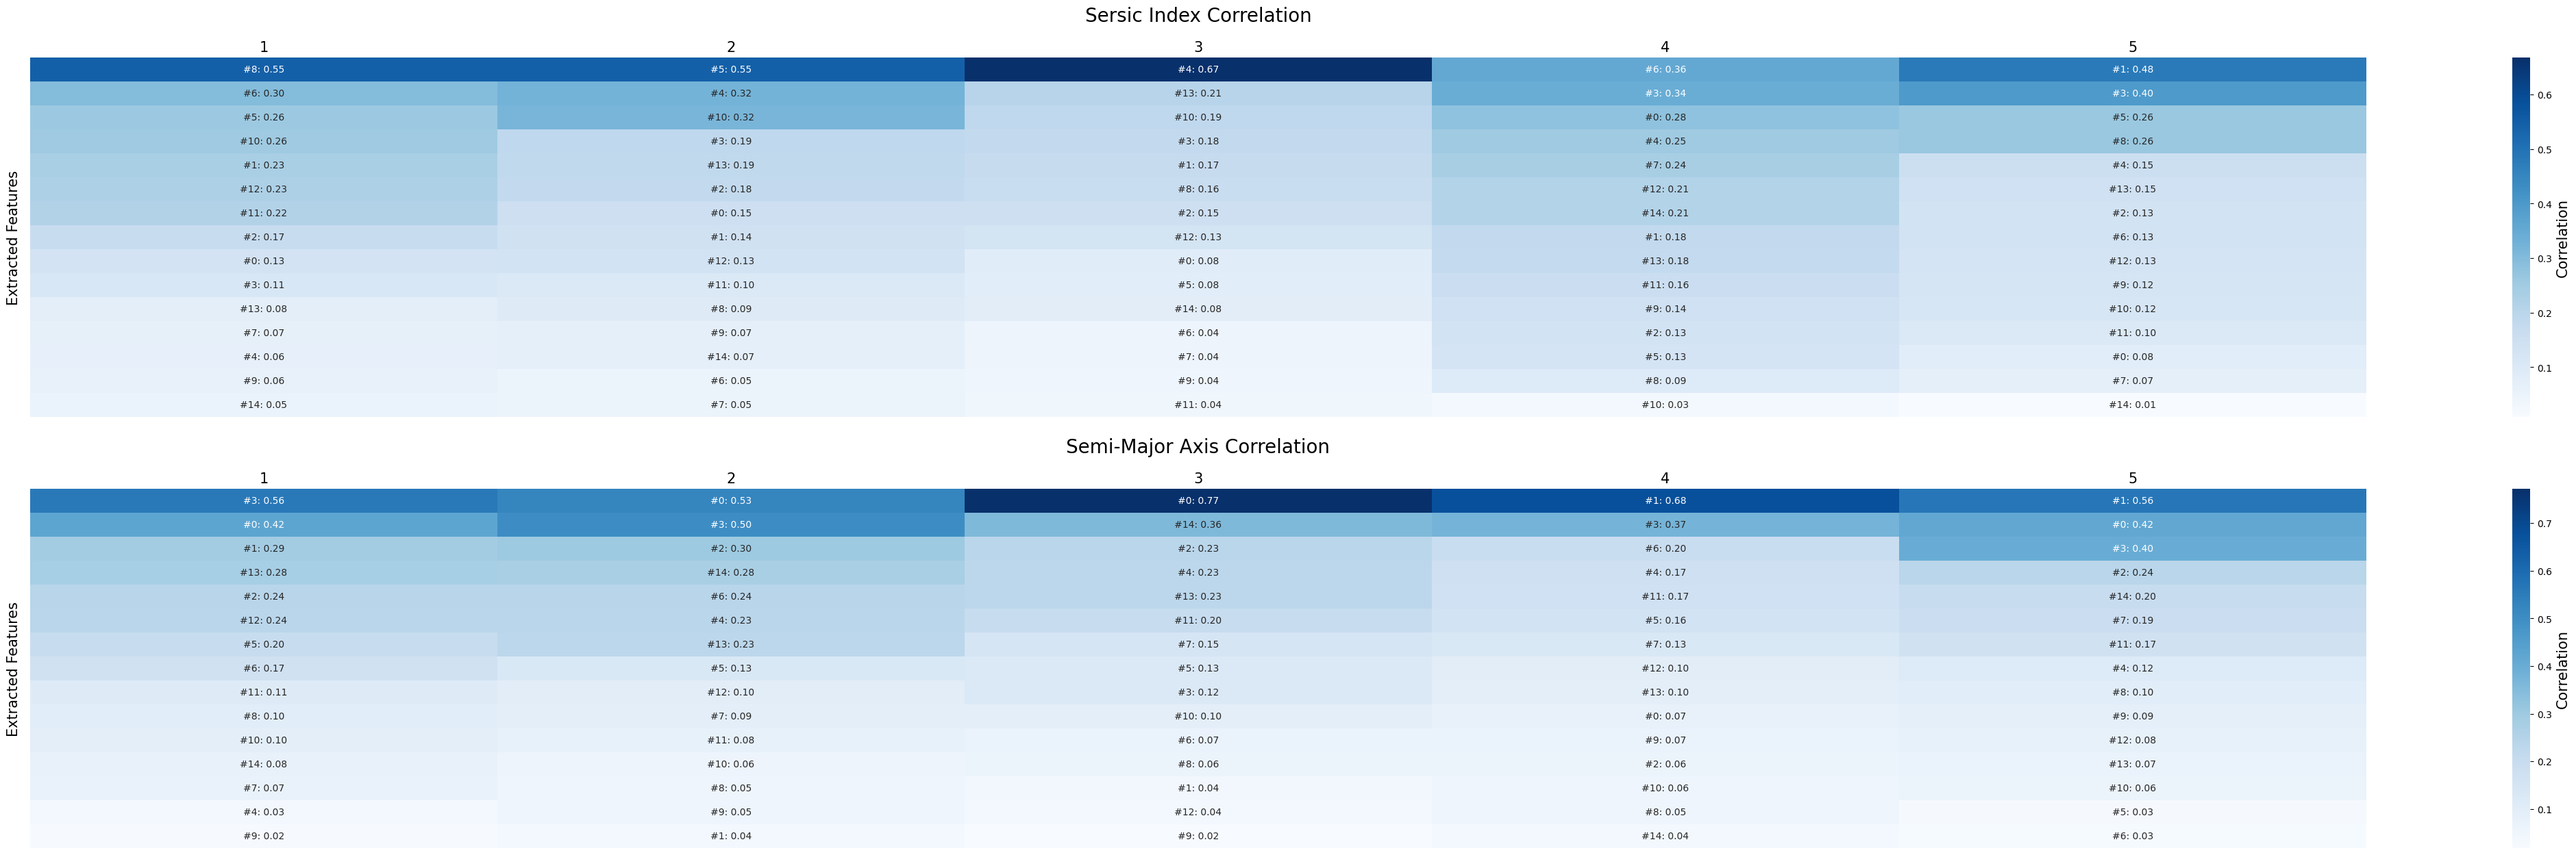
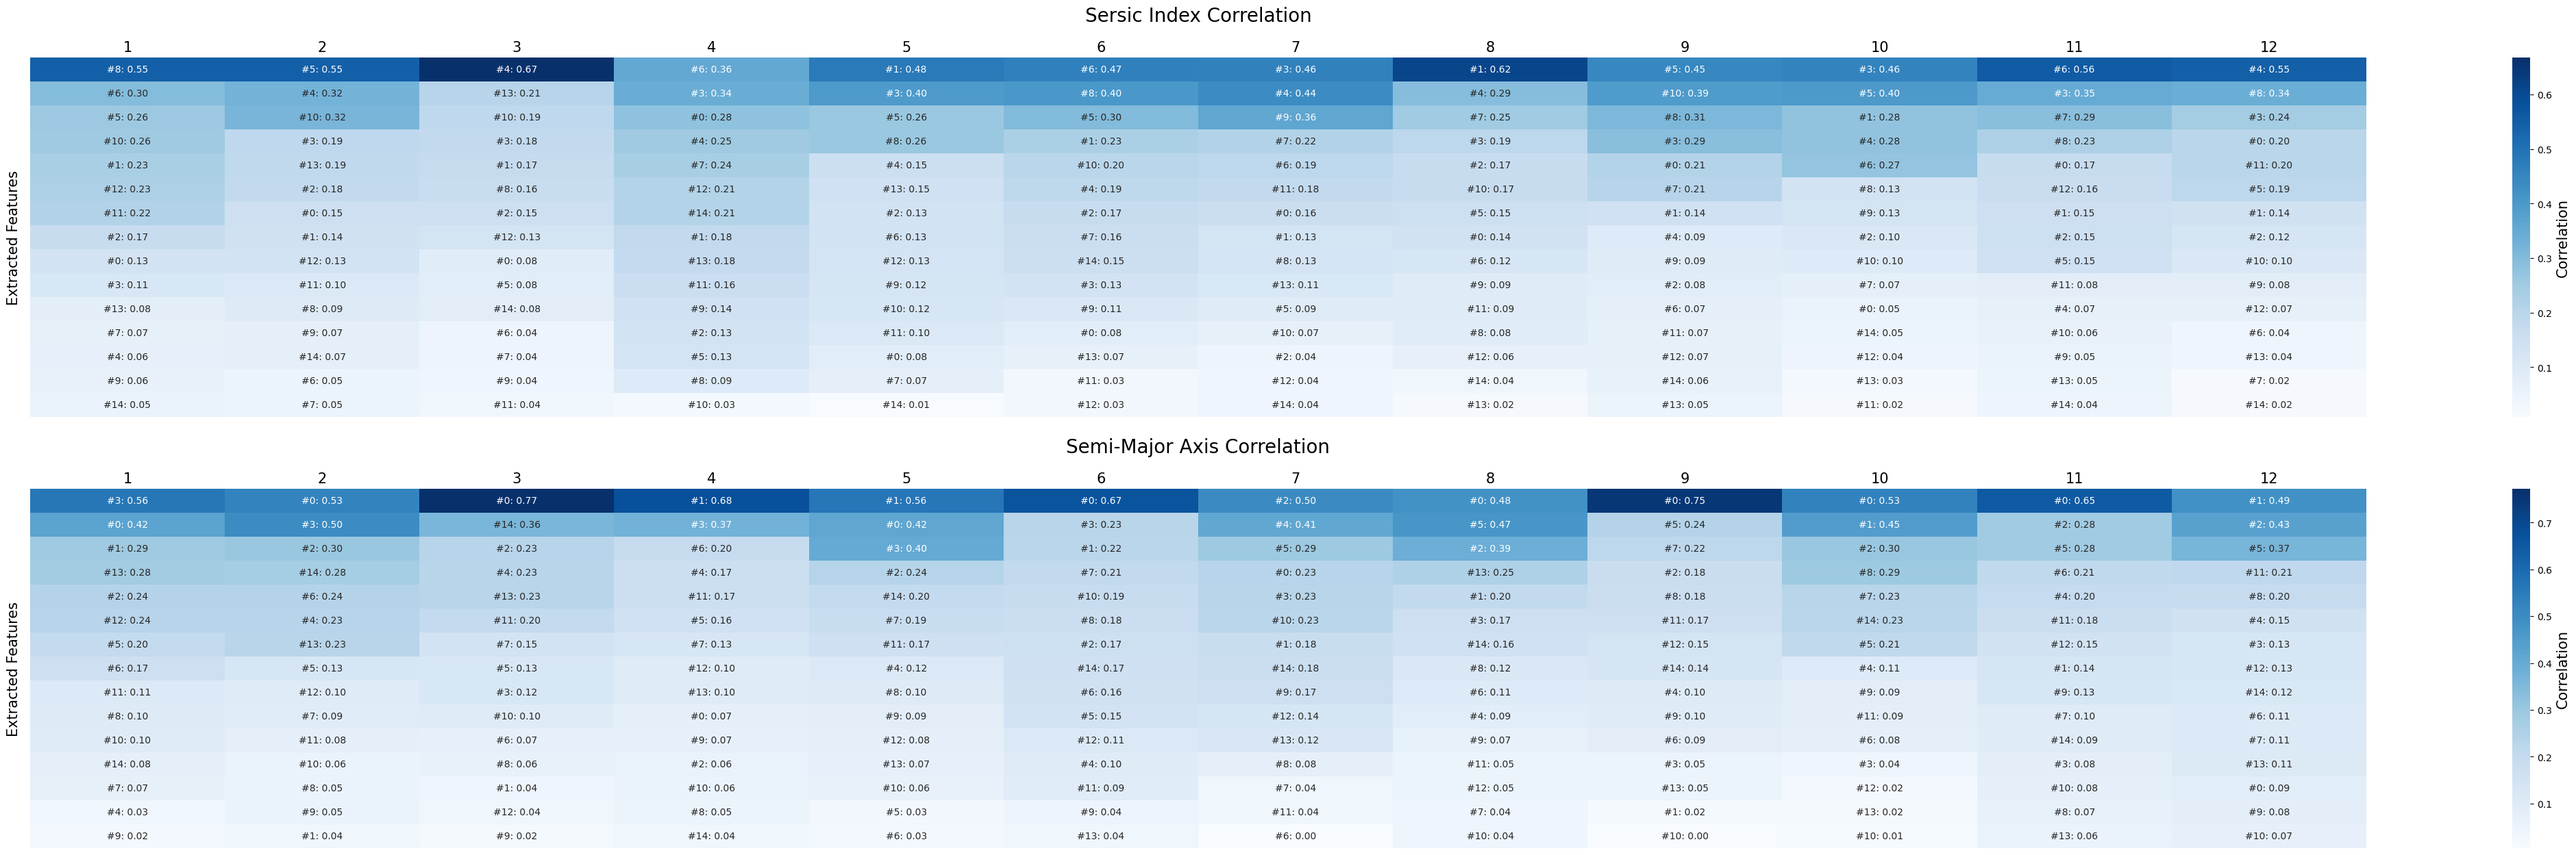
Code

diff --git a/correlation_flows.py b/correlation_flows.py
@@ -189,14 +189,14 @@ print(all_properties)
 
 # fig, axs = plt.subplots(1, 1, figsize=(25, encoding_dim/2))
 # fig, axs = plt.subplots(2, 1, figsize=(25, encoding_dim))
-fig, axs = plt.subplots(2, 1, figsize=(55, 15))
+fig, axs = plt.subplots(2, 1, figsize=(55, 30))
 
 
 
 correlation_df = pd.DataFrame(columns=["1", "2", "3", "4", "5", "6", "7", "8", "9", "10", "11", "12"])
 
 # for feature in range(0, encoding_dim):
-for feature in range(0, 15):
+for feature in range(0, 30):
 
     correlation_list = []
 
@@ -213,10 +213,10 @@ for feature in range(0, 15):
         extracted_features_switch = extracted_features.T
 
         # perform pca on the extracted features
-        pca = PCA(n_components=15).fit(extracted_features)
-        extracted_features = pca.transform(extracted_features)
-        extracted_features = extracted_features[:len(all_properties)]
-        extracted_features_switch = extracted_features.T
+        # pca = PCA(n_components=15).fit(extracted_features)
+        # extracted_features = pca.transform(extracted_features)
+        # extracted_features = extracted_features[:len(all_properties)]
+        # extracted_features_switch = extracted_features.T
 
 
 
@@ -297,7 +297,7 @@ wrap_labels(axs[0], 10)
 correlation_df = pd.DataFrame(columns=["1", "2", "3", "4", "5", "6", "7", "8", "9", "10", "11", "12"])
 
 # for feature in range(0, encoding_dim):
-for feature in range(0, 15):
+for feature in range(0, 30):
 
     correlation_list = []
 
@@ -313,10 +313,10 @@ for feature in range(0, 15):
         extracted_features_switch = extracted_features.T
 
         # perform pca on the extracted features
-        pca = PCA(n_components=15).fit(extracted_features)
-        extracted_features = pca.transform(extracted_features)
-        extracted_features = extracted_features[:len(all_properties)]
-        extracted_features_switch = extracted_features.T
+        # pca = PCA(n_components=15).fit(extracted_features)
+        # extracted_features = pca.transform(extracted_features)
+        # extracted_features = extracted_features[:len(all_properties)]
+        # extracted_features_switch = extracted_features.T
 
         # calculate the correlation coefficients (multiple for different types of correlation eg. mirrored)
         correlation_1 = np.corrcoef(extracted_features_switch[feature], all_properties["re_r"])[0][1]
@@ -393,7 +393,7 @@ wrap_labels(axs[1], 10)
 
 
 
-plt.savefig("Variational Eagle/Correlation Plots/Variational Flows/PCA/flow_comparison_original", bbox_inches='tight')
+plt.savefig("Variational Eagle/Correlation Plots/Variational Flows/Normal/flow_comparison_original", bbox_inches='tight')
 plt.show()
 
 

diff --git a/loss_flows.py b/loss_flows.py
@@ -373,7 +373,7 @@ for encoding_dim in [30]:
 
 
         # generate extracted features from trained encoder and save as numpy array
-        z_mean, _, _, _ = vae.encoder.predict(train_images)
+        z_mean, z_log_var, _, _ = vae.encoder.predict(train_images)
 
         # get the sampling layer
         sampling_layer = None
